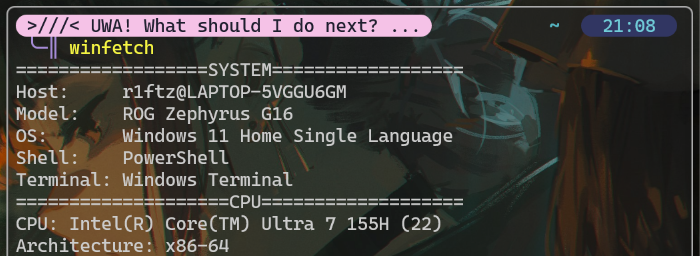
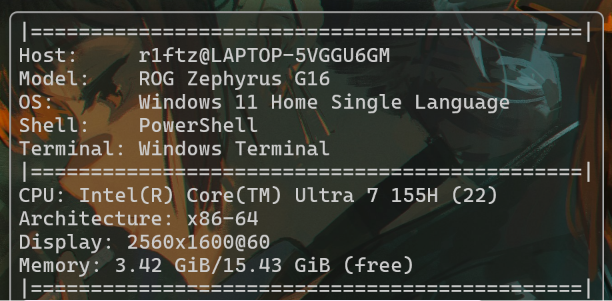
Added functions for Ram and Display specifications.

diff --git a/src/memory.c b/src/memory.c
@@ -1,0 +1,29 @@
+#include <windows.h>
+#include <stdio.h>
+#define BtoGiB (1024*1024*1024)
+char* get_ram_available(){
+  MEMORYSTATUSEX mem;
+  mem.dwLength = sizeof(mem);  
+  static char free[64];
+  GlobalMemoryStatusEx(&mem);
+  snprintf(free, sizeof(mem), "%.2f GiB", (float)mem.ullAvailPhys / BtoGiB);
+  return free;
+}
+
+char* get_ram_total(){
+  MEMORYSTATUSEX mem;
+  mem.dwLength = sizeof(mem);  
+  static char total[64];
+  GlobalMemoryStatusEx(&mem);
+  snprintf(total, sizeof(mem), "%.2f GiB", (float)mem.ullTotalPhys / BtoGiB);
+  return total;
+}
+
+char* get_ram_used(){
+  MEMORYSTATUSEX mem;
+  mem.dwLength = sizeof(mem);  
+  static char used[64];
+  GlobalMemoryStatusEx(&mem);
+  snprintf(used, sizeof(mem), "%.2f GiB", (float)(mem.ullTotalPhys - mem.ullTotalPhys) / BtoGiB);
+  return used;
+}

diff --git a/src/hardware.c b/src/hardware.c
@@ -74,3 +74,27 @@ char* get_cpu(){
 
   return cpu;
 }
+
+char* get_terminal_size(){
+  int width = GetSystemMetrics(SM_CXSCREEN);
+  int height = GetSystemMetrics(SM_CYSCREEN);
+  static char tr[16];
+  snprintf(tr, sizeof(tr), "%dx%d", width, height);
+  return tr;
+}
+char* get_resolution_primary(){
+  DEVMODE dm;
+  dm.dmSize = sizeof(dm);
+  static char res[16];  
+  EnumDisplaySettings(NULL, ENUM_CURRENT_SETTINGS, &dm);
+    snprintf(res, sizeof(res), "%lux%lu", dm.dmPelsWidth, dm.dmPelsHeight);
+  return res;
+}
+char* get_refresh_rate(){
+  DEVMODE dm;
+  dm.dmSize = sizeof(dm);
+  static char rr[4];  
+  EnumDisplaySettings(NULL, ENUM_CURRENT_SETTINGS, &dm);
+    snprintf(rr, sizeof(rr), "%lu", dm.dmDisplayFrequency);
+  return rr;
+}

diff --git a/src/main.c b/src/main.c
@@ -1,14 +1,19 @@
 #include "hardware.h"
 #include "sysinfo.h"
+#include "memory.h"
+#include <stdio.h>
 
 int main(){
-  printf("==================SYSTEM==================\n");
+  printf("|==============================================|\n");
   printf("Host:     %s@%s\n", get_user(), get_hostname());
   printf("Model:    %s\n", get_device_clean());
   printf("OS:       %s\n", get_os());
   printf("Shell:    %s\n", get_shell());
   printf("Terminal: %s\n", get_terminal());
-  printf("====================CPU===================\n");
+  printf("|==============================================|\n");
   printf("CPU: %s (%s)\n", get_cpu(), get_logical_cores());
   printf("Architecture: %s\n", get_architecture());
+  printf("Display: %s@%s\n", get_resolution_primary(), get_refresh_rate());
+  printf("Memory: %s/%s (free)\n", get_ram_available(), get_ram_total());
+  printf("|==============================================|\n");
 }

diff --git a/src/memory.h b/src/memory.h
@@ -1,0 +1,8 @@
+#ifndef MEMORY_H
+#define MEMORY_H
+
+char* get_ram_available();
+char* get_ram_total();
+char* get_ram_used();
+
+#endif

diff --git a/src/sysinfo.h b/src/sysinfo.h
@@ -1,19 +1,11 @@
 #ifndef SYSINFO_H
 #define SYSINFO_H
 
-#include <windows.h>
-#include <stdio.h>
-
 char* get_os();
-
 char* get_os_clean();
-
 char* get_user();
-
 char* get_hostname();
-
 char* get_shell();
-
 char* get_terminal();
 
 #endif

diff --git a/src/hardware.h b/src/hardware.h
@@ -6,5 +6,7 @@ char* get_device_clean();
 char* get_architecture();
 char* get_logical_cores();
 char* get_cpu();
+char* get_resolution_primary();
+char* get_refresh_rate();
 
 #endif

diff --git a/README.md b/README.md
@@ -1,7 +1,9 @@
 # WinFetch
 A lightweight neofetch-style system info tool for Windows, written in C.
 An easy and familiar project for first-year CS students to tinker with and make their first open-source contributions using C!
+
 ![](image.png)
+
 ## Requirements
 - GCC 
 - make
@@ -32,3 +34,8 @@ Edit `main.c` to your liking using the available functions. All functions return
 - `get_os_clean()` — Shorter OS name (e.g. `Windows 11`)
 - `get_shell()` — Current shell (e.g. `PowerShell`)
 - `get_terminal()` — Current terminal (e.g. `Windows Terminal`)
+- `get_resolution_primary()` — Primary display resolution (e.g. `2560x1600`)
+- `get_refresh_rate()` — Display refresh rate (e.g. `60`)
+- `get_ram_total()` — Total RAM (e.g. `16.00 GiB`)
+- `get_ram_used()` — Used RAM (e.g. `8.23 GiB`)
+- `get_ram_available()` — Available RAM (e.g. `7.77 GiB`)